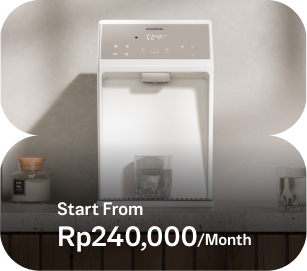
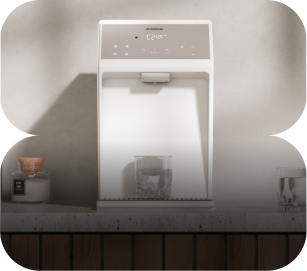
update

Changed region(s): [[0.1759, 0.8266, 0.8208, 0.9446], [0.1759, 0.738, 0.4691, 0.797]]

diff --git a/src/app/components/Products.tsx b/src/app/components/Products.tsx
@@ -182,6 +182,7 @@ export default function Products() {
         </div>
 
         {/* Products Section */}
+      <div className="bg-blue-900/30 backdrop-blur-sm rounded-3xl p-8">
         <div className="text-center mb-8 relative z-10">
           <p className="text-xs text-blue-900 font-semibold mb-2 tracking-wider">OUR PRODUCTS</p>
           <h3 className="text-3xl lg:text-4xl font-bold text-white mb-1">
@@ -192,10 +193,10 @@ export default function Products() {
           </p>
         </div>
 
-        {/* Products Grid */}
+
         <div className="grid lg:grid-cols-2 gap-6 relative z-10">
           {/* Left Side */}
-          <div className="bg-white/20 backdrop-blur-sm rounded-2xl p-6">
+          <div className=" rounded-2xl p-6">
             <div className="space-y-4">
               <div className="flex items-center gap-4 p-4 bg-white/30 rounded-xl hover:bg-white/40 transition-colors cursor-pointer">
                 <span className="text-2xl font-bold text-white">01</span>
@@ -204,7 +205,7 @@ export default function Products() {
                   <p className="text-sm font-bold text-gray-900">MODENA Top Table</p>
                 </div>
               </div>
-              <div className="flex items-center gap-4 p-4 bg-white/20 rounded-xl hover:bg-white/30 transition-colors cursor-pointer">
+              <div className="flex items-center gap-4 p-4 rounded-xl hover:bg-white/30 transition-colors cursor-pointer">
                 <span className="text-2xl font-bold text-white/70">02</span>
                 <div className="flex-1">
                   <p className="text-xs text-blue-900 font-semibold">WATER</p>
@@ -212,7 +213,7 @@ export default function Products() {
                   <p className="text-sm font-bold text-gray-900">Osmosis 6-stage</p>
                 </div>
               </div>
-              <div className="flex items-center gap-4 p-4 bg-white/20 rounded-xl hover:bg-white/30 transition-colors cursor-pointer">
+              <div className="flex items-center gap-4 p-4 rounded-xl hover:bg-white/30 transition-colors cursor-pointer">
                 <span className="text-2xl font-bold text-white/70">03</span>
                 <div className="flex-1">
                   <p className="text-xs text-blue-900 font-semibold">WATER</p>
@@ -224,35 +225,14 @@ export default function Products() {
           </div>
 
           {/* Right Side */}
-          <div className="bg-blue-900/40 backdrop-blur-sm rounded-2xl p-6 text-white">
-            <div className="mb-6">
-              <p className="text-xs text-cyan-300 mb-2">WATER PURIFIER - RO/NON RO</p>
-              <h4 className="text-2xl font-bold mb-4">Water Purifier RO Top Table</h4>
-              <div className="flex gap-4 mb-6">
-                <div className="flex items-center gap-2 text-xs">
-                  <svg className="w-4 h-4" fill="currentColor" viewBox="0 0 20 20">
-                    <path d="M9 2a1 1 0 000 2h2a1 1 0 100-2H9z" />
-                    <path fillRule="evenodd" d="M4 5a2 2 0 012-2 3 3 0 003 3h2a3 3 0 003-3 2 2 0 012 2v11a2 2 0 01-2 2H6a2 2 0 01-2-2V5zm3 4a1 1 0 000 2h.01a1 1 0 100-2H7zm3 0a1 1 0 000 2h3a1 1 0 100-2h-3zm-3 4a1 1 0 100 2h.01a1 1 0 100-2H7zm3 0a1 1 0 100 2h3a1 1 0 100-2h-3z" clipRule="evenodd" />
-                  </svg>
-                  TDS: PureCrystal Clear
-                </div>
-                <div className="flex items-center gap-2 text-xs">
-                  <svg className="w-4 h-4" fill="currentColor" viewBox="0 0 20 20">
-                    <path fillRule="evenodd" d="M11.3 1.046A1 1 0 0112 2v5h4a1 1 0 01.82 1.573l-7 10A1 1 0 018 18v-5H4a1 1 0 01-.82-1.573l7-10a1 1 0 011.12-.38z" clipRule="evenodd" />
-                  </svg>
-                  Instant Hot/Cold
-                </div>
-              </div>
-
-              <div className="bg-white/10 rounded-xl p-6 mb-6 flex justify-center">
-                <img
-                  src="https://images.unsplash.com/photo-1595514535116-2fc1b5b76e4e?q=80&w=300&auto=format&fit=crop"
-                  alt="Water Purifier"
-                  className="h-48 object-contain"
-                />
-              </div>
-            </div>
-          </div>
+          <div className="rounded-xl flex justify-center">
+      <img
+        src="/images/productbawah.png"
+        alt="Water Purifier"
+        className="w-full object-contain"
+      />
+    </div>
+        </div>
         </div>
       </div>
 

diff --git a/src/app/components/Subscribe.tsx b/src/app/components/Subscribe.tsx
@@ -37,7 +37,7 @@ export default function Subscribe() {
         {/* Card 2 */}
         <div className="relative rounded-xl overflow-hidden shadow w-[196px] h-[339px]">
           <Image
-            src="/images/Rectangle1.png" 
+            src="/images/subs2.png" 
             alt="Modena Staff"
             width={196}
             height={339}
@@ -48,29 +48,32 @@ export default function Subscribe() {
         {/* Card 3 */}
         <div className="relative rounded-xl overflow-hidden shadow w-[306.6px] h-[270.77px]">
           <Image
-            src="/images/Rectangle1.png" 
+            src="/images/subs3.png" 
             alt="Subscription Price"
             width={306.6}
             height={270.77}
             className="w-full h-full object-cover"
           />
-          <div className="absolute bottom-4 left-4 bg-black/60 px-3 py-2 rounded-md">
-            <span className="text-white font-semibold text-lg">
-              Start From Rp240,000/Month
-            </span>
+          <div className="absolute bottom-4 left-1/2 -translate-x-1/2 text-white">
+            <div className="flex flex-col items-start space-y-1">
+              <span className="text-xs">Start From</span>
+              <span className="text-2xl font-bold">
+                Rp240,000/<span className="text-base font-normal">Month</span>
+              </span>
+            </div>
           </div>
         </div>
 
         {/* Card 4 */}
         <div className="relative rounded-xl overflow-hidden shadow w-[196px] h-[339px]">
           <Image
-            src="/images/Rectangle1.png" 
+            src="/images/subs4.png" 
             alt="Seamless Care"
             width={196}
             height={339}
             className="w-full h-full object-cover"
           />
-          <div className="absolute inset-0 bg-black/30 flex items-start justify-start p-4">
+          <div className="absolute inset-0 bg-black/30 flex items-end justify-start p-4">
             <span className="text-white font-medium text-lg">
               Seamless Care: From installation to regular maintenance—all
               handled.
@@ -81,7 +84,7 @@ export default function Subscribe() {
         {/* Card 5 */}
         <div className="relative rounded-xl overflow-hidden shadow w-[260px] h-[477.99px]">
           <Image
-            src="/images/Rectangle1.png" 
+            src="/images/subs5.png" 
             alt="Water Dispenser"
             width={260}
             height={477.99}

diff --git a/src/app/components/CTASection.tsx b/src/app/components/CTASection.tsx
@@ -2,27 +2,28 @@
 
 export default function CTASection() {
   return (
-    <div className="w-full bg-gray-100">
+    <div className="w-full bg-gray-100 -mt-20">
       <div className="w-full">
         <div className="grid md:grid-cols-2 rounded-t-[60px] overflow-hidden shadow-2xl">
           <div className="relative h-96 md:h-auto">
             <img
-              src="https://images.unsplash.com/photo-1559827260-dc66d52bef19?q=80&w=1000&auto=format&fit=crop"
-              alt="Person holding glass of water"
+              src="/images/cta.png" 
+              alt="cta"
               className="w-full h-full object-cover"
             />
           </div>
-
-          <div className="bg-cyan-400 flex flex-col items-center justify-center p-12 text-center">
-            <h2 className="text-white text-4xl md:text-5xl font-bold mb-2">
-              R
-            </h2>
-            <p className="text-white text-3xl md:text-4xl font-bold mb-8">
-              Let's Get Started!
-            </p>
-            <button className="bg-white text-cyan-500 px-8 py-3 rounded font-semibold hover:bg-gray-50 transition-all duration-300 shadow-lg">
-              Subscribe Now
-            </button>
+          <div className="bg-cyan-400 flex flex-col justify-center p-12 text-left h-full">
+            <div className="max-w-md ml-4 space-y-6">
+              <h2 className="text-white text-4xl md:text-5xl font-bold">
+                Ready to Go?
+              </h2>
+              <p className="text-white text-3xl md:text-4xl font-bold">
+                Let's Get Started!
+              </p>
+              <button className="bg-white text-cyan-500 px-8 py-3 rounded font-semibold hover:bg-gray-50 transition-all duration-300 shadow-lg">
+                Subscribe Now
+              </button>
+            </div>
           </div>
         </div>
       </div>

diff --git a/src/app/components/HowToSubs.tsx b/src/app/components/HowToSubs.tsx
@@ -177,13 +177,6 @@ export default function HowToSubs() {
                   </p>
                 </div>
               </div>
-
-              {/* Arrow Prev */}
-              <div className="hidden lg:flex absolute top-1/2 -right-5 -translate-y-1/2 z-30 w-10 h-10 bg-cyan-500 rounded-full items-center justify-center shadow-lg">
-                <svg className="w-5 h-5 text-white" fill="currentColor" viewBox="0 0 24 24">
-                  <path d="M8.59 16.59L13.17 12 8.59 7.41 10 6l6 6-6 6-1.41-1.41z" />
-                </svg>
-              </div>
             </div>
 
           </div>

diff --git a/next.config.js b/next.config.js
@@ -1,0 +1,10 @@
+/** @type {import('next').NextConfig} */
+const nextConfig = {
+  reactStrictMode: true,    
+  swcMinify: true,          
+  experimental: {
+    turbo: true,           
+  },
+};
+
+module.exports = nextConfig;
